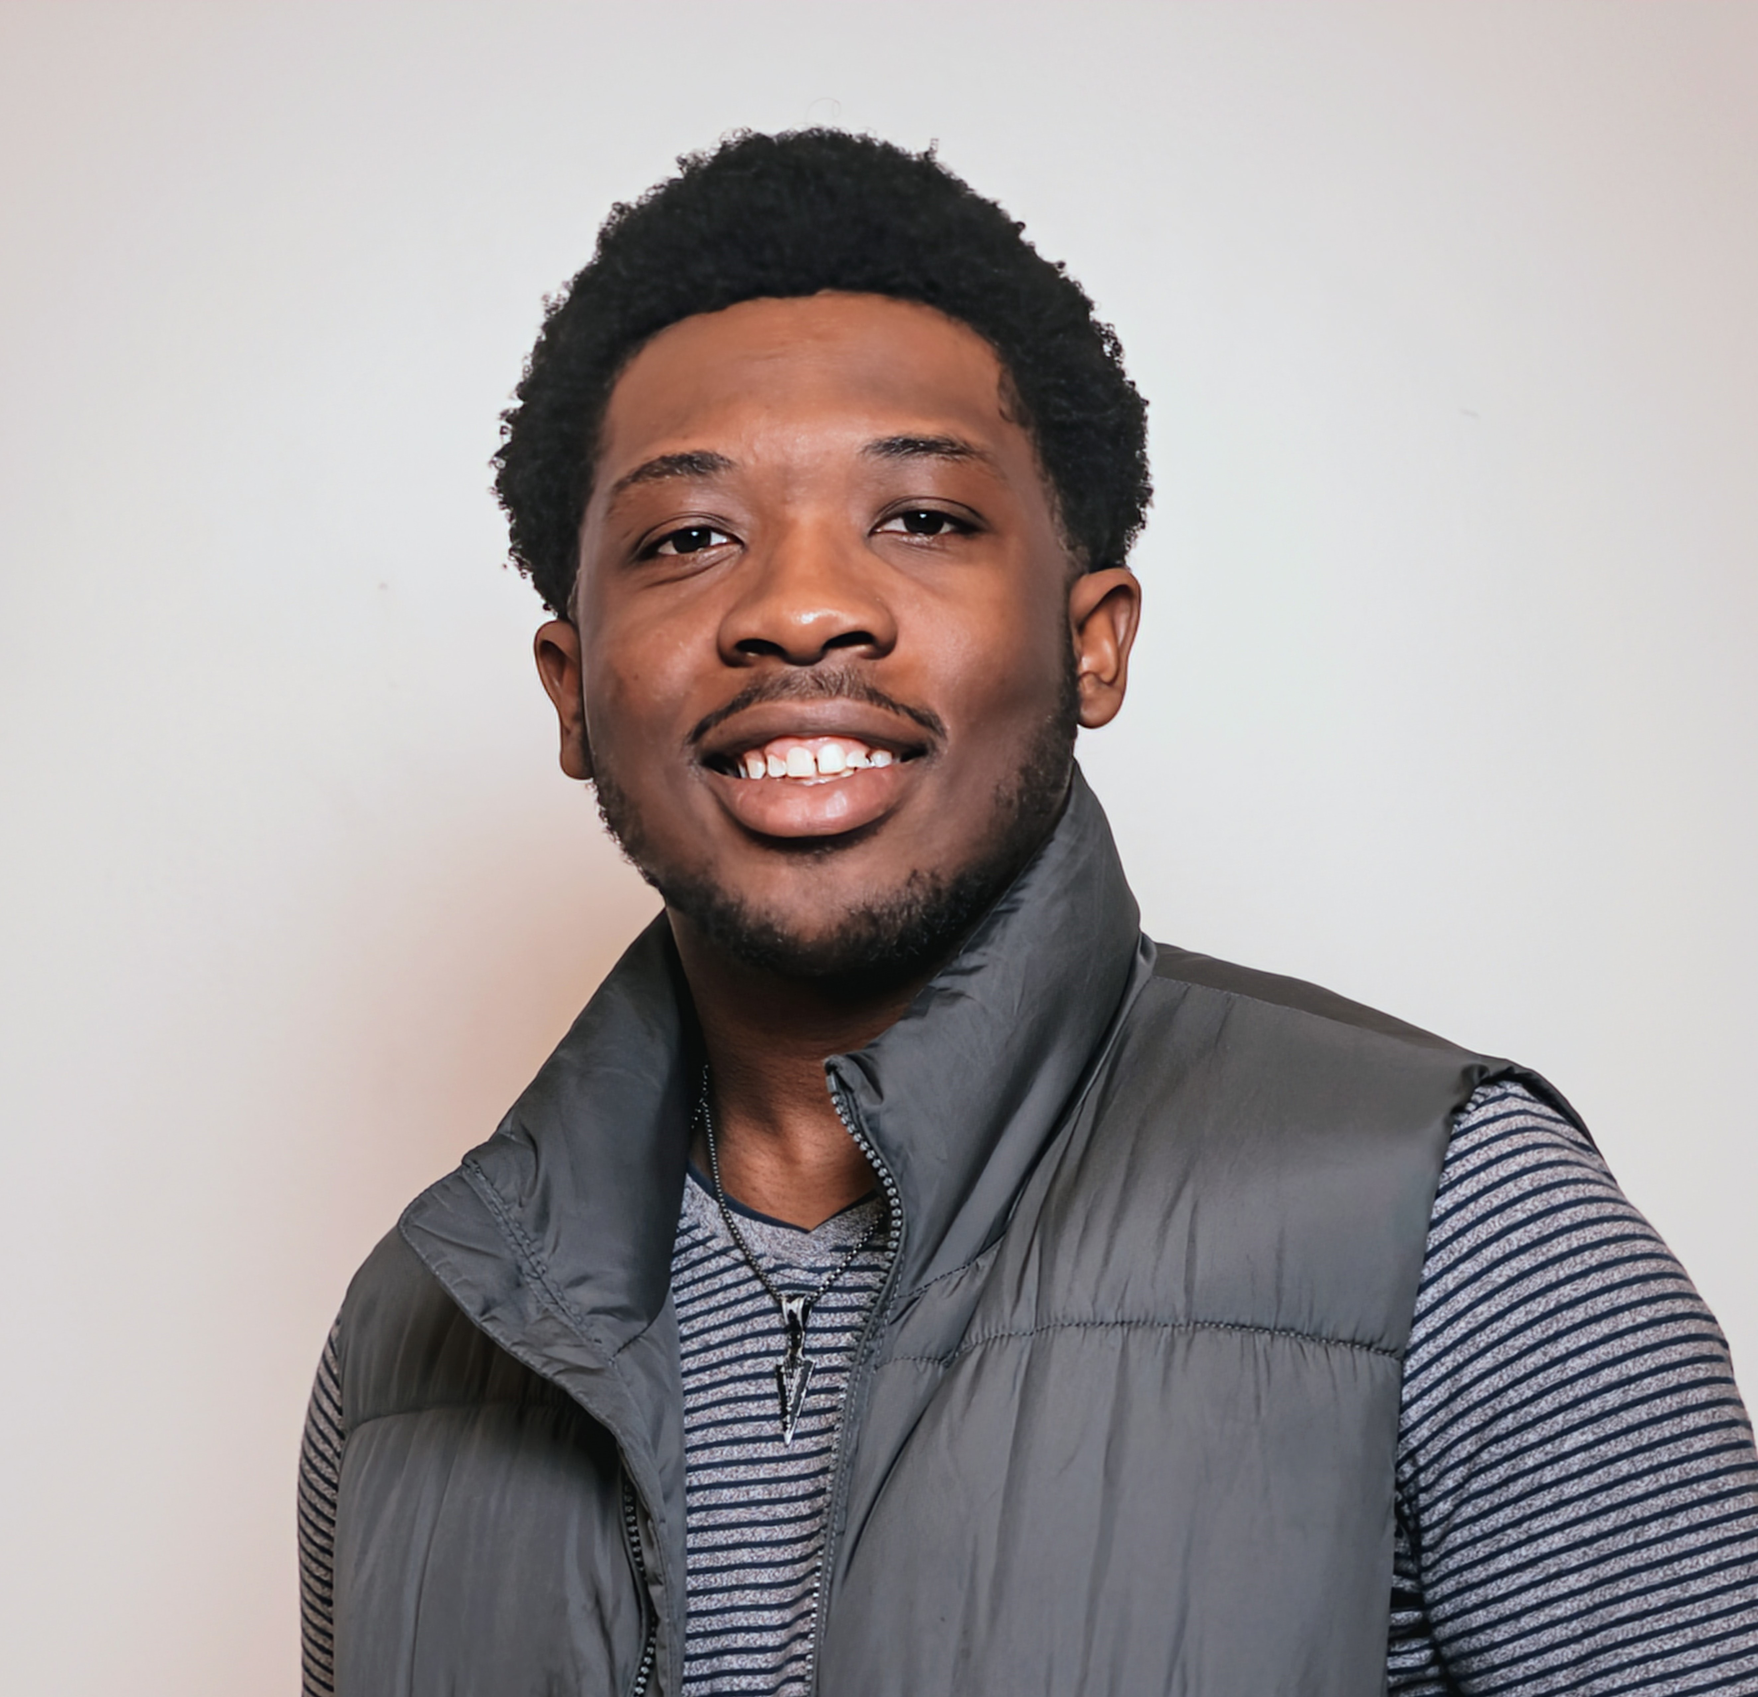
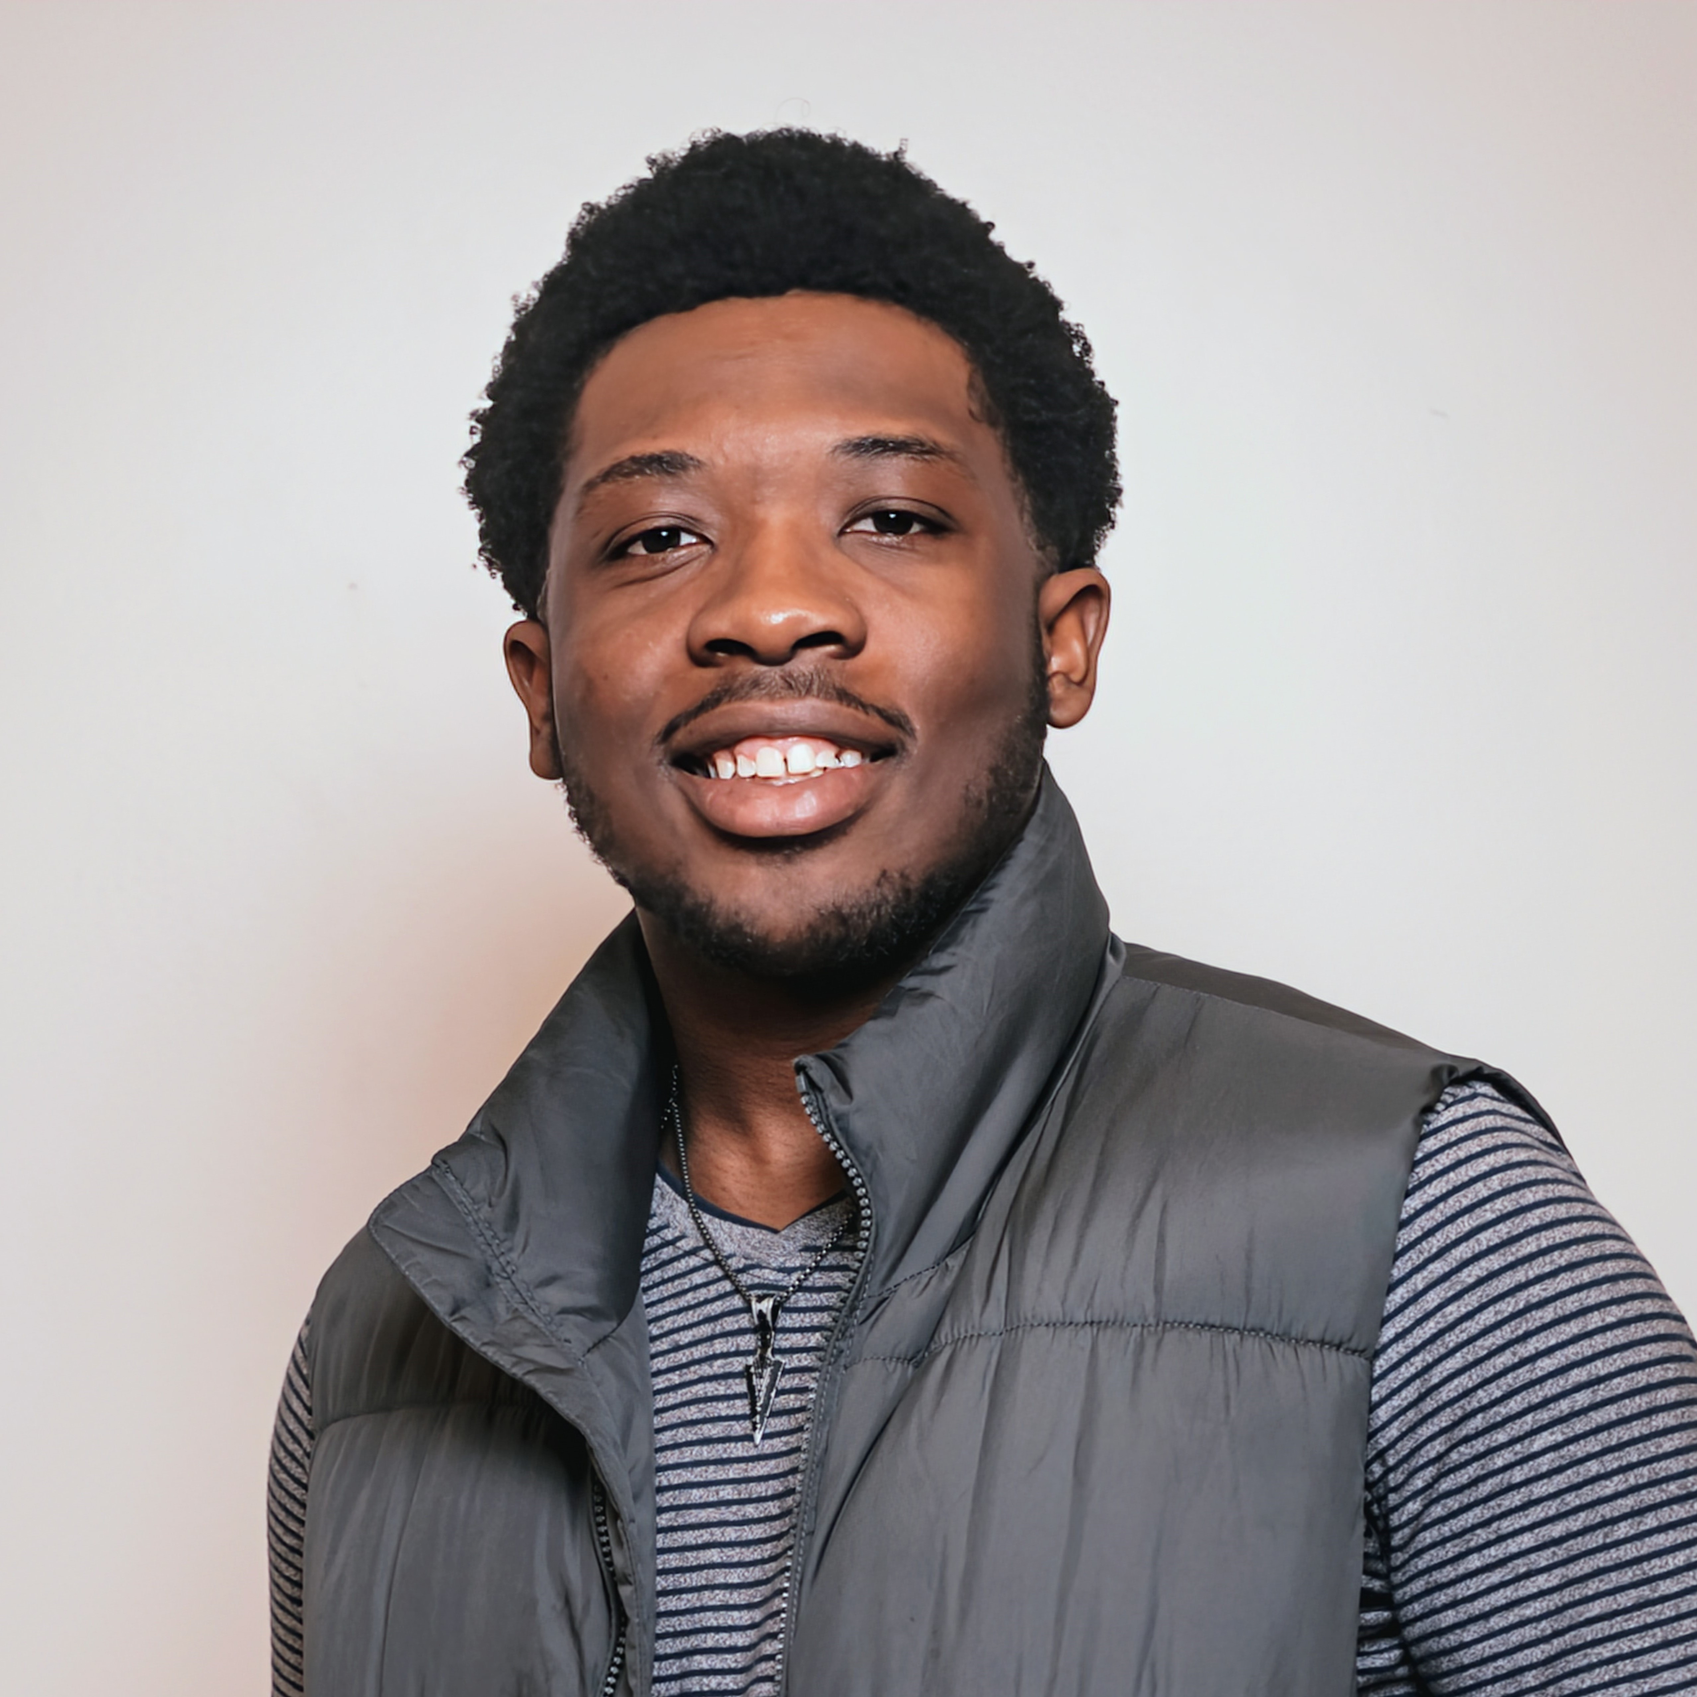
ui improvment

diff --git a/src/components/HowItWorks.tsx b/src/components/HowItWorks.tsx
@@ -4,7 +4,7 @@ const HowItWorks: React.FC = () => {
   return (
     <section className="bg-white dark:bg-gray-900">
       <div className="py-8 px-4 mx-auto max-w-screen-xl sm:py-16 lg:px-6">
-        <div className="max-w-screen-md mb-8 lg:mb-16">
+        <div className="max-w-screen-md mb-8 lg:mb-16 mx-auto text-center">
           <h2 className="mb-4 text-4xl tracking-tight font-extrabold text-gray-900 dark:text-white">
             How MemorixAI Works
           </h2>
@@ -15,7 +15,7 @@ const HowItWorks: React.FC = () => {
         <div className="space-y-8 md:grid md:grid-cols-2 lg:grid-cols-3 md:gap-12 md:space-y-0">
           <div>
             <div className="flex justify-center items-center mb-4 w-10 h-10 rounded-full bg-primary-100 lg:h-12 lg:w-12 dark:bg-primary-900">
-              <svg className="w-5 h-5 text-primary-600 lg:w-6 lg:h-6 dark:text-primary-300" fill="currentColor" viewBox="0 0 20 20" >
+            <svg className="w-5 h-5 text-gray-900 lg:w-6 lg:h-6 dark:text-white" fill="currentColor" viewBox="0 0 20 20" >
                 <path fillRule="evenodd" d="M3 3a1 1 0 000 2v8a2 2 0 002 2h2.586l-1.293 1.293a1 1 0 101.414 1.414L10 15.414l2.293 2.293a1 1 0 001.414-1.414L12.414 15H15a2 2 0 002-2V5a1 1 0 100-2H3zm11.707 4.707a1 1 0 00-1.414-1.414L10 9.586 8.707 8.293a1 1 0 00-1.414 0l-2 2a1 1 0 101.414 1.414L8 10.414l1.293 1.293a1 1 0 001.414 0l4-4z" clipRule="evenodd"></path>
               </svg>
             </div>
@@ -26,7 +26,7 @@ const HowItWorks: React.FC = () => {
           </div>
           <div>
             <div className="flex justify-center items-center mb-4 w-10 h-10 rounded-full bg-primary-100 lg:h-12 lg:w-12 dark:bg-primary-900">
-              <svg className="w-5 h-5 text-primary-600 lg:w-6 lg:h-6 dark:text-primary-300" fill="currentColor" viewBox="0 0 20 20" >
+            <svg className="w-5 h-5 text-gray-900 lg:w-6 lg:h-6 dark:text-white" fill="currentColor" viewBox="0 0 20 20" >
                 <path d="M10.394 2.08a1 1 0 00-.788 0l-7 3a1 1 0 000 1.84L5.25 8.051a.999.999 0 01.356-.257l4-1.714a1 1 0 11.788 1.838L7.667 9.088l1.94.831a1 1 0 00.787 0l7-3a1 1 0 000-1.838l-7-3zM3.31 9.397L5 10.12v4.102a8.969 8.969 0 00-1.05-.174 1 1 0 01-.89-.89 11.115 11.115 0 01.25-3.762zM9.3 16.573A9.026 9.026 0 007 14.935v-3.957l1.818.78a3 3 0 002.364 0l5.508-2.361a11.026 11.026 0 01.25 3.762 1 1 0 01-.89.89 8.968 8.968 0 00-5.35 2.524 1 1 0 01-1.4 0zM6 18a1 1 0 001-1v-2.065a8.935 8.935 0 00-2-.712V17a1 1 0 001 1z"></path>
               </svg>
             </div>
@@ -37,7 +37,7 @@ const HowItWorks: React.FC = () => {
           </div>
           <div>
             <div className="flex justify-center items-center mb-4 w-10 h-10 rounded-full bg-primary-100 lg:h-12 lg:w-12 dark:bg-primary-900">
-              <svg className="w-5 h-5 text-primary-600 lg:w-6 lg:h-6 dark:text-primary-300" fill="currentColor" viewBox="0 0 20 20" >
+            <svg className="w-5 h-5 text-gray-900 lg:w-6 lg:h-6 dark:text-white" fill="currentColor" viewBox="0 0 20 20" >
                 <path fillRule="evenodd" d="M6 6V5a3 3 0 013-3h2a3 3 0 013 3v1h2a2 2 0 012 2v3.57A22.952 22.952 0 0110 13a22.95 22.95 0 01-8-1.43V8a2 2 0 012-2h2zm2-1a1 1 0 011-1h2a1 1 0 011 1v1H8V5zm1 5a1 1 0 011-1h.01a1 1 0 110 2H10a1 1 0 01-1-1z" clipRule="evenodd"></path>
                 <path d="M2 13.692V16a2 2 0 002 2h12a2 2 0 002-2v-2.308A24.974 24.974 0 0110 15c-2.796 0-5.487-.46-8-1.308z"></path>
               </svg>
@@ -49,9 +49,8 @@ const HowItWorks: React.FC = () => {
           </div>
           <div>
             <div className="flex justify-center items-center mb-4 w-10 h-10 rounded-full bg-primary-100 lg:h-12 lg:w-12 dark:bg-primary-900">
-              <svg className="w-5 h-5 text-primary-600 lg:w-6 lg:h-6 dark:text-primary-300" fill="currentColor" viewBox="0 0 20 20" >
-                <path d="M8.433 7.418c.155-.103.346-.196.567-.267v1.698a2.305 2.305 0 01-.567-.267C8.07 8.34 8 8.114 8 8c0-.114.07-.34.433-.582zM11 12.849v-1.698c.22.071.412.164.567.267.364.243.433.468.433.582 0 .114-.07.34-.433.582a2.305 2.305 0 01-.567.267z"></path>
-                <path fillRule="evenodd" d="M10 18a8 8 0 100-16 8 8 0 000 16zm1-13a1 1 0 10-2 0v.092a4.535 4.535 0 00-1.676.662C6.602 6.234 6 7.009 6 8c0 .99.602 1.765 1.324 2.246.48.32 1.054.545 1.676.662v1.941c-.391-.127-.68-.317-.843-.504a1 1 0 10-1.51 1.31c.562.649 1.413 1.076 2.353 1.253V15a1 1 0 102 0v-.092a4.535 4.535 0 001.676-.662C13.398 13.766 14 12.991 14 12c0-.99-.602-1.765-1.324-2.246A4.535 4.535 0 0011 9.092V7.151c.391.127.68.317.843.504a1 1 0 101.511-1.31c-.563-.649-1.413-1.076-2.354-1.253V5z" clipRule="evenodd"></path>
+              <svg className="w-5 h-5 text-gray-900 lg:w-6 lg:h-6 dark:text-white" fill="currentColor" viewBox="0 0 20 20" >
+                <path d="M11.3 1.046A1 1 0 0112 2v5h4a1 1 0 01.82 1.573l-7 10A1 1 0 018 18v-5H4a1 1 0 01-.82-1.573l7-10a1 1 0 011.12-.38z" />
               </svg>
             </div>
             <h3 className="mb-2 text-xl font-bold dark:text-white">AI Chatbot Assistance</h3>
@@ -61,7 +60,7 @@ const HowItWorks: React.FC = () => {
           </div>
           <div>
             <div className="flex justify-center items-center mb-4 w-10 h-10 rounded-full bg-primary-100 lg:h-12 lg:w-12 dark:bg-primary-900">
-              <svg className="w-5 h-5 text-primary-600 lg:w-6 lg:h-6 dark:text-primary-300" fill="currentColor" viewBox="0 0 20 20">
+            <svg className="w-5 h-5 text-gray-900 lg:w-6 lg:h-6 dark:text-white" fill="currentColor" viewBox="0 0 20 20" >
                 <path d="M7 3a1 1 0 000 2h6a1 1 0 100-2H7zM4 7a1 1 0 011-1h10a1 1 0 110 2H5a1 1 0 01-1-1zM2 11a2 2 0 012-2h12a2 2 0 012 2v4a2 2 0 01-2 2H4a2 2 0 01-2-2v-4z"></path>
               </svg>
             </div>

diff --git a/src/components/Pricing.tsx b/src/components/Pricing.tsx
@@ -3,7 +3,7 @@ import React from 'react';
 const Pricing: React.FC = () => {
   return (
     <section id="pricing"  className="bg-white dark:bg-gray-900">
-      <div className="py-8 px-4 mx-auto max-w-screen-xl lg:py-16 lg:px-6">
+      <div className="px-4  py-24 mx-auto max-w-screen-xl lg:py-24 lg:px-6">
         <div className="mx-auto max-w-screen-md text-center mb-8 lg:mb-12">
           <h2 className="mb-4 text-4xl tracking-tight font-extrabold text-gray-900 dark:text-white">
             Choose the Best Plan for Your Learning Journey
@@ -39,7 +39,7 @@ const Pricing: React.FC = () => {
               </li>
             </ul>
             <a href="#" className="text-white bg-blue-600 hover:bg-blue-700 focus:ring-4 focus:ring-blue-200 font-medium rounded-lg text-sm px-5 py-2.5 text-center dark:text-white dark:focus:ring-blue-900">
-              Get started
+              Coming Soon
             </a>
           </div>
           
@@ -60,19 +60,16 @@ const Pricing: React.FC = () => {
               </li>
               <li className="flex items-center space-x-3">
                 <svg className="flex-shrink-0 w-5 h-5 text-green-500 dark:text-green-400" fill="currentColor" viewBox="0 0 20 20" xmlns="http://www.w3.org/2000/svg"><path fillRule="evenodd" d="M16.707 5.293a1 1 0 011.414 1.414l-8 8a1 1 0 01-1.414 0l-4-4a1 1 0 011.414-1.414L8 12.586l7.293-7.293a1 1 0 011.414 0z" clipRule="evenodd"></path></svg>
-                <span>Access to all educational games</span>
+                <span>Access to some educational games</span>
               </li>
               <li className="flex items-center space-x-3">
                 <svg className="flex-shrink-0 w-5 h-5 text-green-500 dark:text-green-400" fill="currentColor" viewBox="0 0 20 20" xmlns="http://www.w3.org/2000/svg"><path fillRule="evenodd" d="M16.707 5.293a1 1 0 011.414 1.414l-8 8a1 1 0 01-1.414 0l-4-4a1 1 0 011.414-1.414L8 12.586l7.293-7.293a1 1 0 011.414 0z" clipRule="evenodd"></path></svg>
                 <span>Priority support</span>
               </li>
-              <li className="flex items-center space-x-3">
-                <svg className="flex-shrink-0 w-5 h-5 text-green-500 dark:text-green-400" fill="currentColor" viewBox="0 0 20 20" xmlns="http://www.w3.org/2000/svg"><path fillRule="evenodd" d="M16.707 5.293a1 1 0 011.414 1.414l-8 8a1 1 0 01-1.414 0l-4-4a1 1 0 011.414-1.414L8 12.586l7.293-7.293a1 1 0 011.414 0z" clipRule="evenodd"></path></svg>
-                <span>Free updates</span>
-              </li>
+
             </ul>
             <a href="#" className="text-white bg-blue-600 hover:bg-blue-700 focus:ring-4 focus:ring-blue-200 font-medium rounded-lg text-sm px-5 py-2.5 text-center dark:text-white dark:focus:ring-blue-900">
-              Get started
+            Coming Soon
             </a>
           </div>
           
@@ -99,13 +96,10 @@ const Pricing: React.FC = () => {
                 <svg className="flex-shrink-0 w-5 h-5 text-green-500 dark:text-green-400" fill="currentColor" viewBox="0 0 20 20" xmlns="http://www.w3.org/2000/svg"><path fillRule="evenodd" d="M16.707 5.293a1 1 0 011.414 1.414l-8 8a1 1 0 01-1.414 0l-4-4a1 1 0 011.414-1.414L8 12.586l7.293-7.293a1 1 0 011.414 0z" clipRule="evenodd"></path></svg>
                 <span>Dedicated support team</span>
               </li>
-              <li className="flex items-center space-x-3">
-                <svg className="flex-shrink-0 w-5 h-5 text-green-500 dark:text-green-400" fill="currentColor" viewBox="0 0 20 20" xmlns="http://www.w3.org/2000/svg"><path fillRule="evenodd" d="M16.707 5.293a1 1 0 011.414 1.414l-8 8a1 1 0 01-1.414 0l-4-4a1 1 0 011.414-1.414L8 12.586l7.293-7.293a1 1 0 011.414 0z" clipRule="evenodd"></path></svg>
-                <span>Free updates</span>
-              </li>
+
             </ul>
             <a href="#" className="text-white bg-blue-600 hover:bg-blue-700 focus:ring-4 focus:ring-blue-200 font-medium rounded-lg text-sm px-5 py-2.5 text-center dark:text-white dark:focus:ring-blue-900">
-              Get started
+            Coming Soon
             </a>
           </div>
         </div>

diff --git a/src/components/Hero.tsx b/src/components/Hero.tsx
@@ -29,7 +29,7 @@ const Hero: React.FC = () => {
   return (
     <>
       <section className="bg-white dark:bg-gray-900">
-        <div className="grid max-w-screen-xl px-4 py-8 mx-auto lg:gap-8 xl:gap-0 lg:py-16 lg:grid-cols-12">
+        <div className="grid max-w-screen-xl px-4 py-24 mx-auto lg:gap-8 xl:gap-0 lg:py-32 lg:grid-cols-12">
           <div className="mr-auto place-self-center lg:col-span-7">
             <h1 className="max-w-2xl mb-4 text-4xl font-extrabold tracking-tight leading-none md:text-5xl xl:text-6xl dark:text-white">
               Revolutionize Your Study Routine with AI-Powered Flashcards
@@ -51,11 +51,16 @@ const Hero: React.FC = () => {
             </a>
           </div>
           <div className="hidden lg:mt-0 lg:col-span-5 lg:flex">
-            <video
+            {/* <video
               src="/video/F.mp4"  // Ensure this matches exactly
               autoPlay
               loop
               muted
+              className="w-full h-auto object-cover"
+            /> */}
+            <img
+              src="/video/sample.jpg"  // Make sure this image exists in your public folder
+              alt="AI-Powered Flashcards"
               className="w-full h-auto object-cover"
             />
           </div>
@@ -66,15 +71,15 @@ const Hero: React.FC = () => {
       {/* Modal */}
       {isModalOpen && (
         <div className="fixed inset-0 z-50 flex items-center justify-center bg-black bg-opacity-50">
-          <div className="bg-white rounded-lg p-6">
-            <h2 className="text-xl font-semibold mb-4">Join the Waitlist</h2>
+          <div className="bg-white dark:bg-gray-800 rounded-lg p-8 max-w-md w-full">
+            <h2 className="text-2xl font-semibold mb-6 text-center text-gray-900 dark:text-white">Join the Waitlist</h2>
             <form onSubmit={handleSubmit}>
               <input
                 type="text"
                 placeholder="Name"
                 value={name}
                 onChange={(e) => setName(e.target.value)}
-                className="w-full px-4 py-2 mb-4 border rounded-lg"
+                className="w-full px-4 py-2 mb-4 border rounded-lg bg-white dark:bg-gray-700 text-gray-900 dark:text-white"
                 required
               />
               <input
@@ -82,20 +87,20 @@ const Hero: React.FC = () => {
                 placeholder="Email"
                 value={email}
                 onChange={(e) => setEmail(e.target.value)}
-                className="w-full px-4 py-2 mb-4 border rounded-lg"
+                className="w-full px-4 py-2 mb-6 border rounded-lg bg-white dark:bg-gray-700 text-gray-900 dark:text-white"
                 required
               />
-              <div className="flex justify-end">
+              <div className="flex justify-center space-x-4">
                 <button
                   type="button"
                   onClick={() => setIsModalOpen(false)}
-                  className="px-4 py-2 mr-2 text-gray-600 border border-gray-300 rounded-lg hover:bg-gray-100"
+                  className="px-6 py-2 text-gray-600 dark:text-gray-300 border border-gray-300 dark:border-gray-600 rounded-lg hover:bg-gray-100 dark:hover:bg-gray-700 transition duration-300"
                 >
                   Cancel
                 </button>
                 <button
                   type="submit"
-                  className="px-4 py-2 text-white bg-blue-600 rounded-lg hover:bg-blue-700"
+                  className="px-6 py-2 text-white bg-blue-600 rounded-lg hover:bg-blue-700 transition duration-300"
                 >
                   Submit
                 </button>

diff --git a/src/components/TeamSection.tsx b/src/components/TeamSection.tsx
@@ -15,8 +15,8 @@ const Team: React.FC = () => {
         <div className="items-center bg-gray-50 rounded-lg shadow sm:flex dark:bg-gray-800 dark:border-gray-700">
           <a href="#">
             <img
-              className="w-full rounded-lg sm:rounded-none sm:rounded-l-lg"
-              src="/teamMembers/Rudik.jpg"
+              className="w-[472px] max-h-[591px] rounded-lg sm:rounded-none sm:rounded-l-lg object-cover"
+              src="/teamMembers/Rudik.JPG"
               alt="Rudik Avatar"
             />
           </a>
@@ -84,7 +84,7 @@ const Team: React.FC = () => {
         <div className="items-center bg-gray-50 rounded-lg shadow sm:flex dark:bg-gray-800 dark:border-gray-700">
   <a href="#">
     <img
-      className="w-[472px] max-h-[591px] rounded-lg sm:rounded-none sm:rounded-l-lg object-cover"
+      className="w-[496px] max-h-[591px] rounded-lg sm:rounded-none sm:rounded-l-lg object-cover"
       src="/teamMembers/David.jpg"
       alt="Diepreye Avatar"
     />
@@ -138,7 +138,7 @@ const Team: React.FC = () => {
         <div className="items-center bg-gray-50 rounded-lg shadow sm:flex dark:bg-gray-800 dark:border-gray-700">
           <a href="#">
             <img
-              className="w-full rounded-lg sm:rounded-none sm:rounded-l-lg"
+              className="w-[496px] max-h-[591px] rounded-lg sm:rounded-none sm:rounded-l-lg"
               src="/teamMembers/Vedant.jpg"
               alt="Vedant Avatar"
             />
@@ -208,9 +208,9 @@ const Team: React.FC = () => {
         <div className="items-center bg-gray-50 rounded-lg shadow sm:flex dark:bg-gray-800 dark:border-gray-700">
           <a href="#">
             <img
-              className="w-full rounded-lg sm:rounded-none sm:rounded-l-lg"
-              src="/teamMembers/Rudik.jpg"
-              alt="Rudik Avatar"
+              className="w-[468px] max-h-[591px] rounded-lg sm:rounded-none sm:rounded-l-lg object-cover"
+              src="/teamMembers/default.jpg"
+              alt="Rohit Avatar"
             />
           </a>
           <div className="p-5">

diff --git a/src/components/ContactForm.tsx b/src/components/ContactForm.tsx
@@ -78,7 +78,7 @@ const ContactForm = () => {
           </div>
           <button 
             type="submit" 
-            className="py-3 px-5 text-sm font-medium text-center text-white rounded-lg bg-primary-700 sm:w-fit hover:bg-primary-800 focus:ring-4 focus:outline-none focus:ring-primary-300 dark:bg-primary-600 dark:hover:bg-primary-700 dark:focus:ring-primary-800"
+            className="py-3 px-5 text-sm font-medium text-center text-white rounded-lg bg-blue-600 hover:bg-blue-700 focus:ring-4 focus:outline-none focus:ring-blue-300 dark:bg-blue-500 dark:hover:bg-blue-600 dark:focus:ring-blue-800 transition-colors duration-200 ease-in-out shadow-md"
           >
             Send message
           </button>

diff --git a/src/components/Footer.tsx b/src/components/Footer.tsx
@@ -2,7 +2,7 @@ import React from 'react';
 
 const Footer: React.FC = () => {
   return (
-    <footer className="p-4 bg-white sm:p-6 dark:bg-gray-800">
+    <footer className="p-4 bg-gray-50 sm:p-6 dark:bg-gray-800">
       <div className="mx-auto max-w-screen-xl">
         <div className="md:flex md:justify-between">
           <div className="mb-6 md:mb-0">
